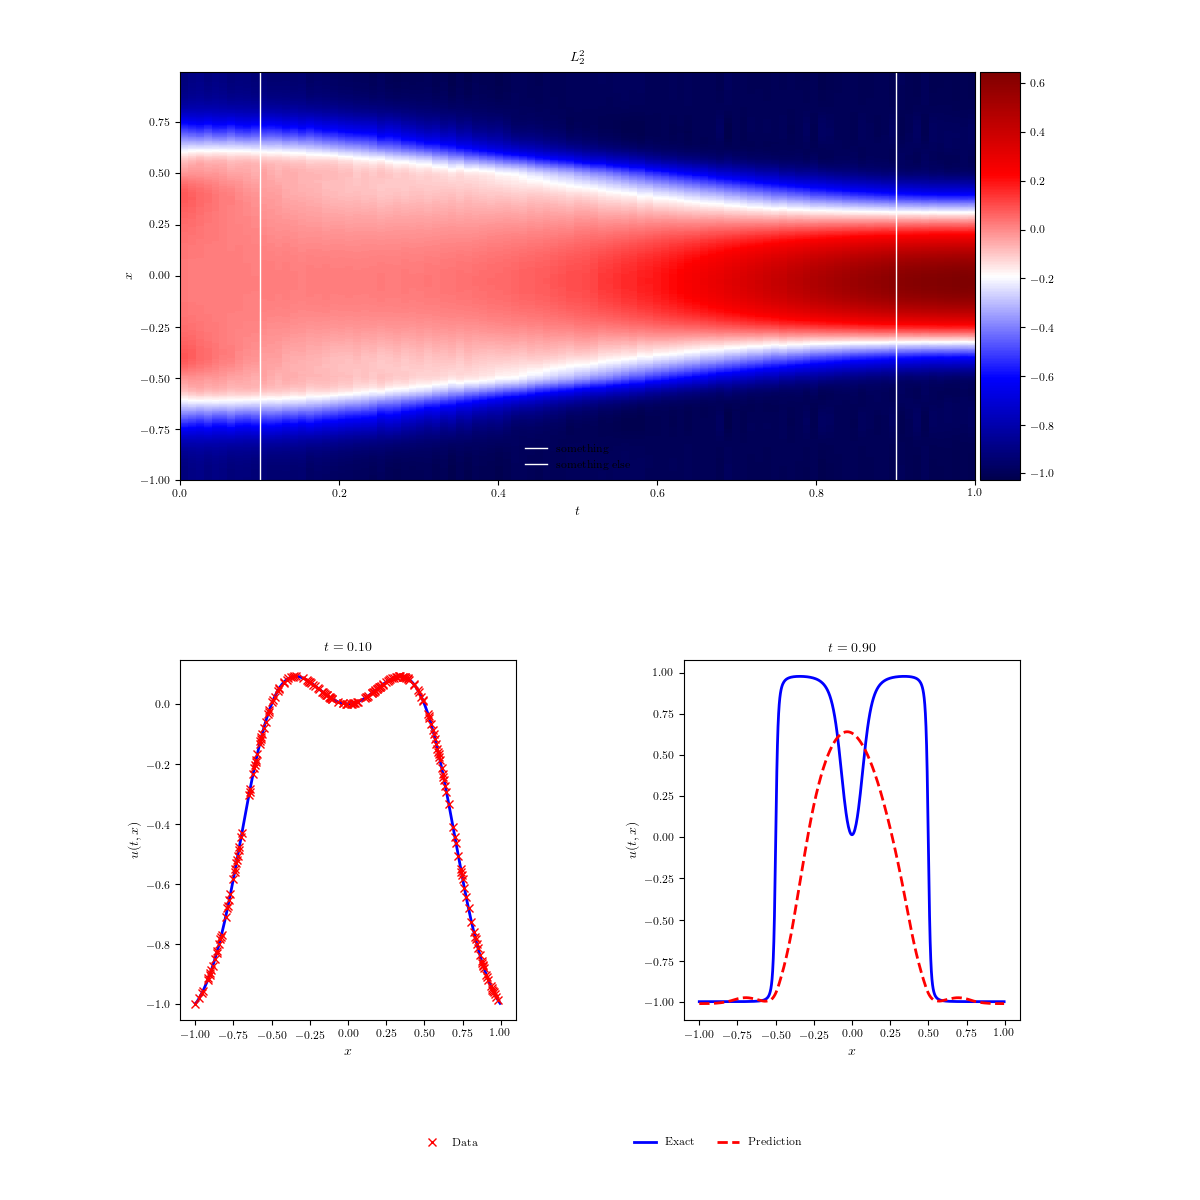
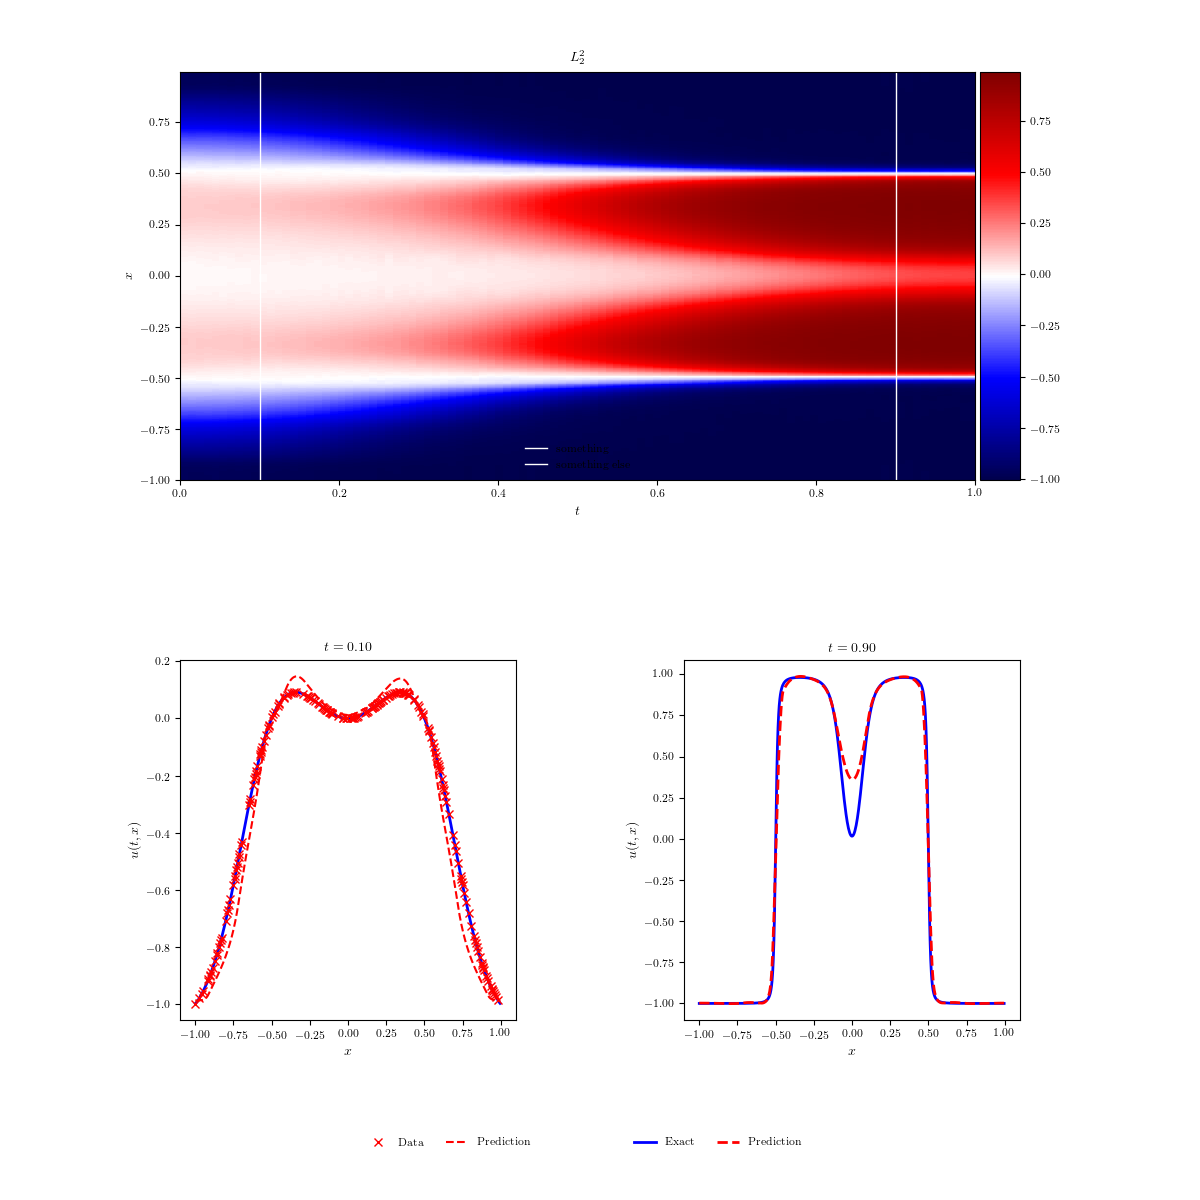
Fixed bottom left plot

diff --git a/main/discrete_time_inference (AC)/AC.py b/main/discrete_time_inference (AC)/AC.py
@@ -45,7 +45,9 @@ class PhysicsInformedNN:
         
         # tf placeholders and graph
         self.sess = tf.Session(config=tf.ConfigProto(allow_soft_placement=True,
-                                                     log_device_placement=True))
+                                                     log_device_placement=True,
+                                                     intra_op_parallelism_threads=1,
+                                                     inter_op_parallelism_threads=2))
 
         
         self.x0_tf = tf.placeholder(tf.float32, shape=(None, self.x0.shape[1]))
@@ -58,16 +60,16 @@ class PhysicsInformedNN:
         self.U1_pred, self.U1_x_pred= self.net_U1(self.x1_tf) # N1 x (q+1)
 
         # regularization parameter
-        self.gamma = tf.constant(10.)
+        self.gamma = tf.constant(1.)
         
-        self.loss = tf.pow(tf.norm((self.u0_tf - self.U0_pred), 2), 2) + \
-                    self.gamma * tf.norm((self.U1_pred[0,:] - self.U1_pred[1,:]), 1) + \
-                    self.gamma * tf.norm((self.U1_x_pred[0,:] - self.U1_x_pred[1,:]), 1)                     
+        self.loss = 1 / self.gamma * tf.pow(tf.norm((self.u0_tf - self.U0_pred), 2), 2) + \
+                    tf.pow(tf.norm((self.U1_pred[0,:] - self.U1_pred[1,:]), 2), 2) + \
+                    tf.pow(tf.norm((self.U1_x_pred[0,:] - self.U1_x_pred[1,:]), 2), 2)                     
         
         self.optimizer = tf.contrib.opt.ScipyOptimizerInterface(self.loss, 
                                                                 method = 'L-BFGS-B', 
-                                                                options = {'maxiter': 50000,
-                                                                           'maxfun': 50000,
+                                                                options = {'maxiter': 500000,
+                                                                           'maxfun': 500000,
                                                                            'maxcor': 50,
                                                                            'maxls': 50,
                                                                            'ftol' : 1.0 * np.finfo(float).eps})
@@ -102,8 +104,8 @@ class PhysicsInformedNN:
         for l in range(0,num_layers-2):
             W = weights[l]
             b = biases[l]
-            #H = tf.tanh(tf.add(tf.matmul(H, W), b))
-            H = tf.nn.elu(tf.add(tf.matmul(H,W), b))
+            H = tf.tanh(tf.add(tf.matmul(H, W), b))
+            #H = tf.nn.elu(tf.add(tf.matmul(H,W), b))
         W = weights[-1]
         b = biases[-1]
         Y = tf.add(tf.matmul(H, W), b)
@@ -204,7 +206,7 @@ if __name__ == "__main__":
 
     model = PhysicsInformedNN(x0, u0, x1, layers, dt, lb, ub, q)
     #model.train(10000)
-    model.train(100000)
+    model.train(10000)
 
     U1_pred = model.predict(x_star)
 
@@ -252,10 +254,10 @@ if __name__ == "__main__":
     ax = plt.subplot(gs1[0, 0])
     ax.plot(x,Exact[idx_t0,:], 'b-', linewidth = 2) 
     ax.plot(x0, u0, 'rx', linewidth = 2, label = 'Data')
-    ax.plot(x_star, U1_pred[:,idx_t0], 'r--',label = 'Prediction')
+    ax.plot(x_star, U1_pred[:,0], 'r--',label = 'Prediction')
     ax.set_xlabel('$x$')
     ax.set_ylabel('$u(t,x)$')    
-    ax.set_title('$t = %.2f$' % (t[idx_t0]), fontsize = 10)
+    ax.set_title('$t = 0$' , fontsize = 10)
     ax.set_xlim([lb-0.1, ub+0.1])
     ax.legend(loc='upper center', bbox_to_anchor=(0.8, -0.3), ncol=2, frameon=False)
 
@@ -270,4 +272,7 @@ if __name__ == "__main__":
     
     ax.legend(loc='upper center', bbox_to_anchor=(0.1, -0.3), ncol=2, frameon=False)
     
-    plt.savefig('./figures/Regularization/Elu/AC_L1_reg_10_default.png')  
+    filename = 'L2_invreg_01_train_010.png'
+
+    plt.savefig('./figures/Regularization/Tanh/' + filename)  
+    print('Results saved to: ' + filename)
